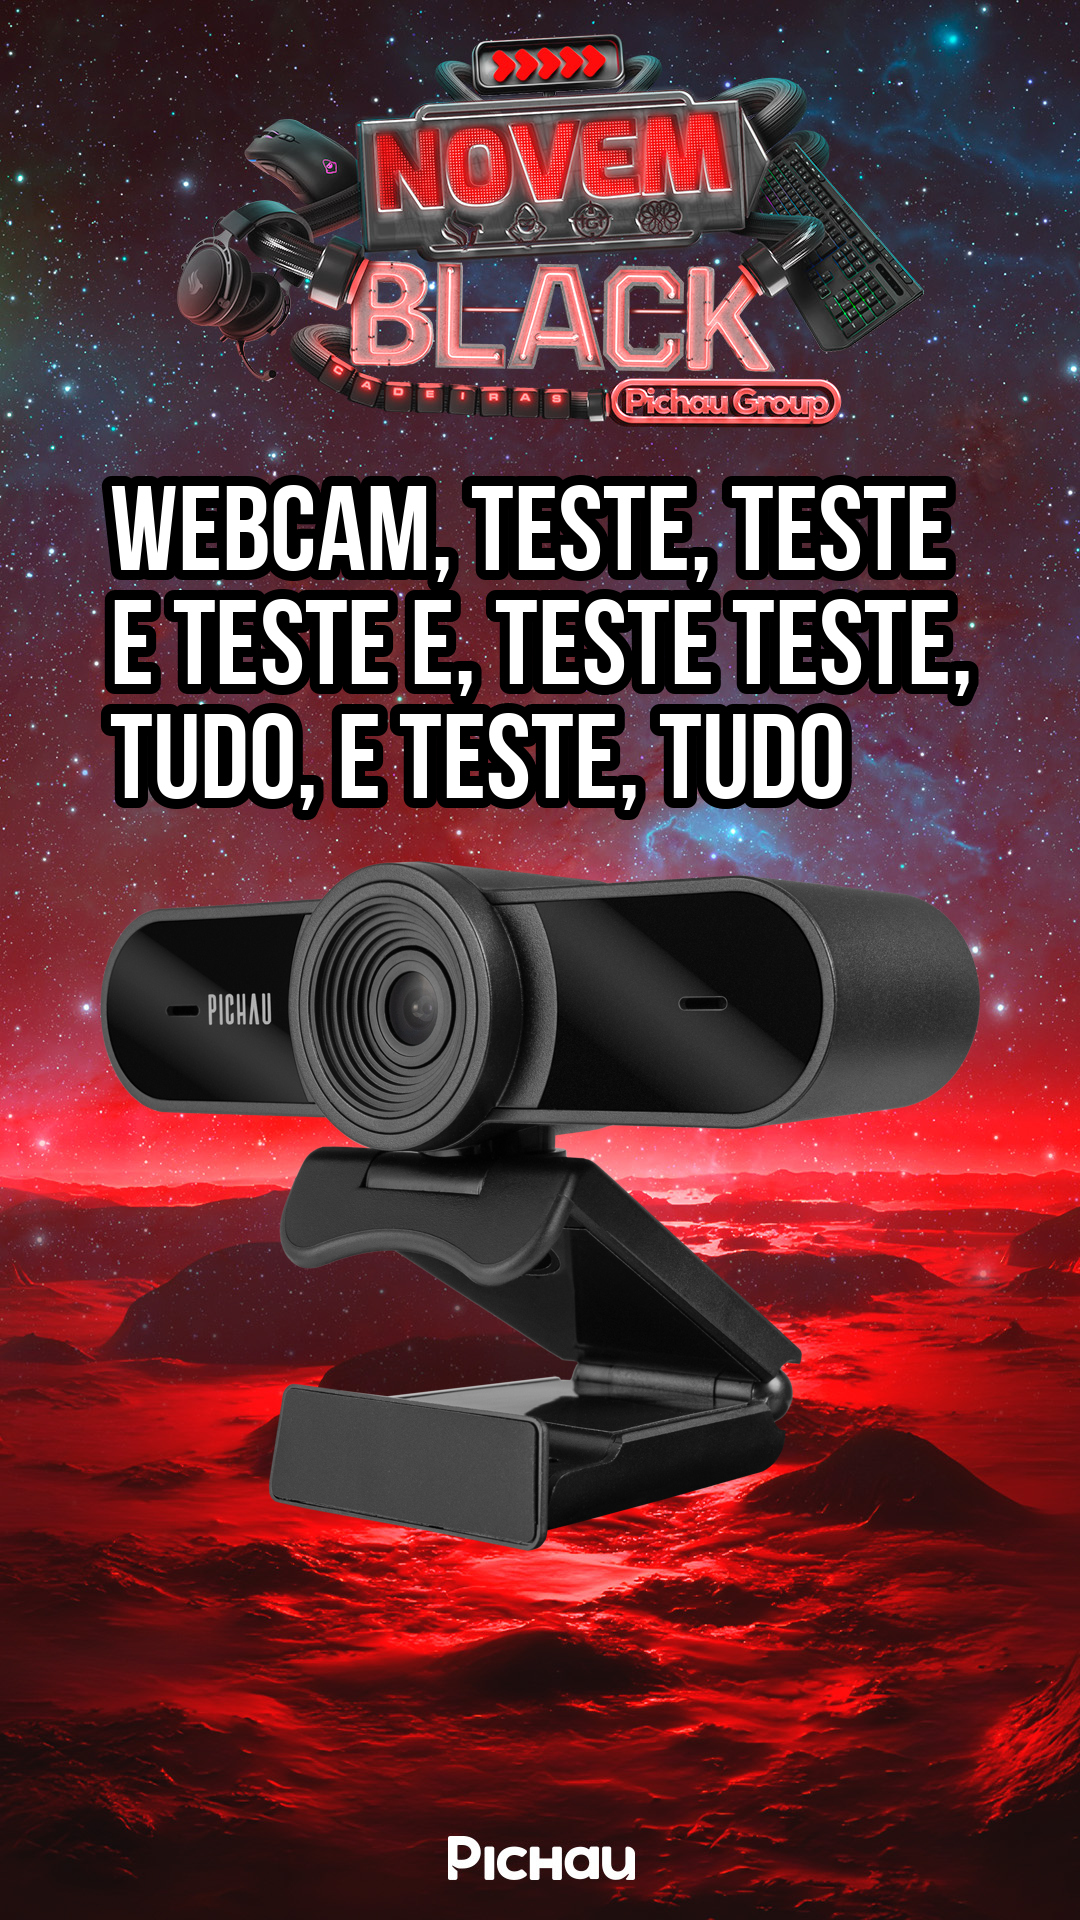
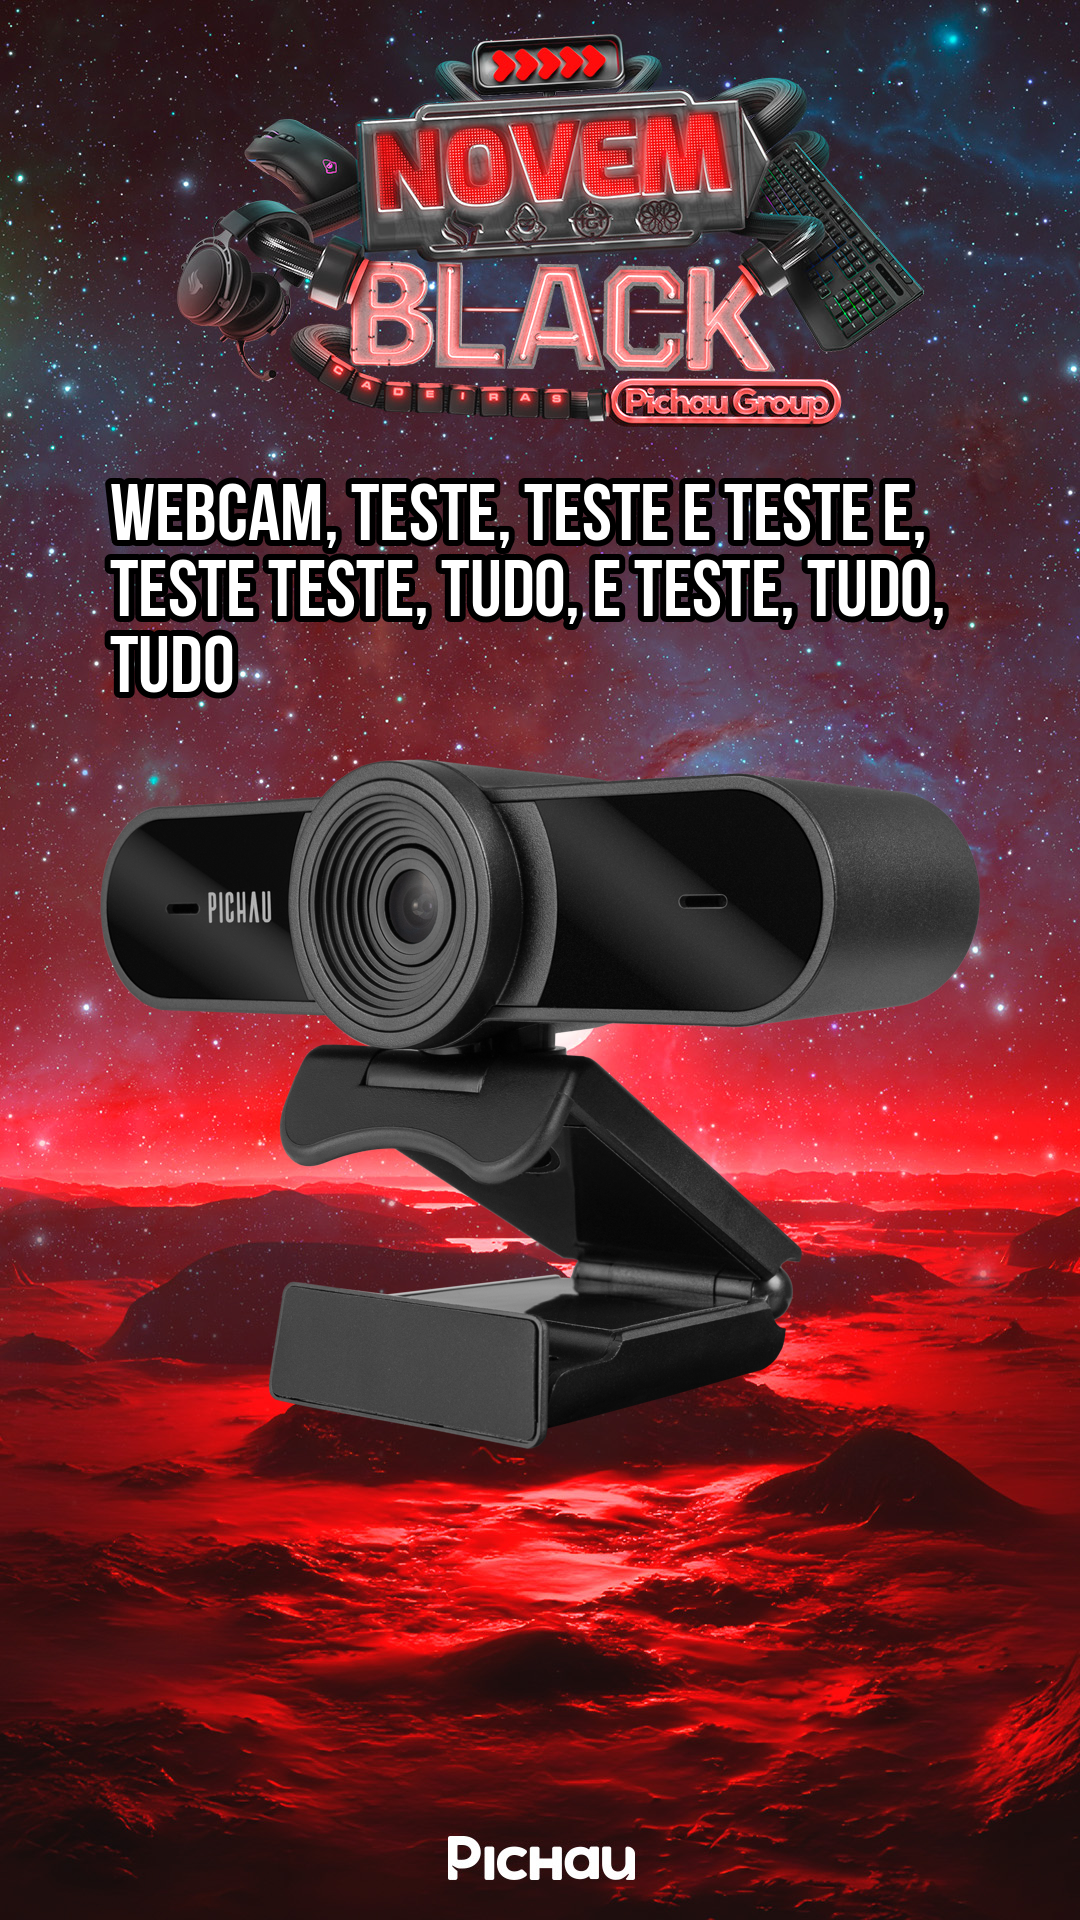
error handling

Changed region(s): [[0.0917, 0.25, 0.9167, 0.8125]]

diff --git a/app/layouts/stories/stories_layout.py b/app/layouts/stories/stories_layout.py
@@ -68,7 +68,7 @@ class InstagramLayout:
         multilines_text = '\n'.join(wraped_text) # Join wrapped lines with newline characters.
 
         draw.text((110,480), multilines_text, font=self.titleFont, fill=(255, 255, 255), # Draw text with white fill.
-                stroke_width=10, stroke_fill=(0, 0, 0)) # Add black stroke around text for better visibility.
+                stroke_width=6, stroke_fill=(0, 0, 0)) # Add black stroke around text for better visibility.
         
         # Calculate text height based on font size and number of lines.
         text_height = self.titleFont.getbbox(multilines_text)[3] * len(wraped_text) + (25 * len(wraped_text))

diff --git a/app/media.py b/app/media.py
@@ -39,7 +39,7 @@ def dropbox_connect():
     """Create a connection to Dropbox."""
 
     try:
-        dbx = dropbox.Dropbox('sl.BsiBbYjvNfKxKNcZkAODXkvsWG5XkrW9gU48H8khkiLd0diCs-80yoJTYkGy-6J7G0ulYP33isuZg3qRnYOMq0uwaU29XcjZzXPC1IUCznNmx_8SjOkqT3oYNVz9rEjvi5cTcwxRoHlQZqEEeqm1EvQ')
+        dbx = dropbox.Dropbox('sl.Bsi3zDT5sWq6xiYzSSojCKm8SfrysuzYPHfLvfbuCodL5KtLGZIZI6dH6BICl_7JurmCiX0COpZx-wuayWyQqWUhbo08mtGEqOacO8XWa0XxzVWXeBemJ7VmlEBWGJk-UeDGmrJdRN3czfhTmoXGD6c')
     except AuthError as e:
         raise Exception(f'Error connecting to Dropbox with access token: {str(e)}')
     return dbx

diff --git a/app/resources/resource_handler.py b/app/resources/resource_handler.py
@@ -32,7 +32,7 @@ def load_product_image(sku, dropbox):
 def load_font():
         """Import the BebasNeue Font"""
         try:
-            font = ImageFont.truetype("data/input/fonts/BebasNeue-Bold.ttf", 120)
+            font = ImageFont.truetype("data/input/fonts/BebasNeue-Bold.ttf", 80)
             return font
         except Exception as e:
             raise Exception(f'Error importing font: {str(e)}')
